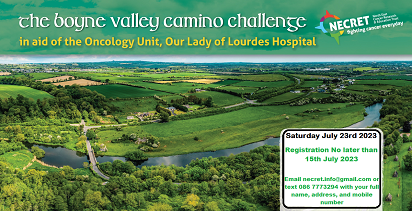
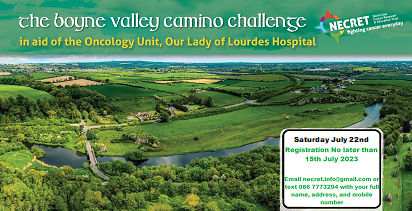
Updated DipNNip - PJ

Changed region(s): [[0.6699, 0.6256, 0.932, 0.6825]]

diff --git a/css/style.css b/css/style.css
@@ -1584,6 +1584,15 @@ span {
     text-align: center;
 }
 
+.faq {
+    color: #cccccc;
+}
+
+
+.faq:hover {
+    color: #ababab;
+}
+
 /* Favours Page */
 
 .favText {

diff --git a/includes/upcomingEvents.php b/includes/upcomingEvents.php
@@ -11,8 +11,8 @@
                     <p class="card-text navyCardText">We have exciting news! Our NorthEast Dip in the Nip Returns... September, Sunday 10th. This year amazingly will be our 12th year.</p>
 
 
-                    <p class="card-text navyCardText">Call <a href="tel:+353867773294">+353 86 777 3294</a></p>
-                    <p class="card-text navyCardText">Email <a href="email:karen@karennh.ie">karen@karennh.ie</a></p>
+                    <p class="card-text navyCardText">Call <a href="tel:+353867773294">+353 89 959 5976</a></p>
+                    <p class="card-text navyCardText">Email <a href="email:karen@karennh.ie">dipnortheast@gmail.com</a></p>
                     <p class="card-text navyCardText">OR</p>
                     <p class="card-text navyCardText">Visit Dip In The Nip Page <a href="./dipintheNip.php">Dip In The Nip</a></p>
                 </div>
@@ -38,7 +38,7 @@
                     <h6 class="card-title navyCardTitle">Registration is now open for our annual Camino. Interested in a fun challenge of an amazing 25km walk and ramble through the beautiful Boyne Valley countryside in aid of NECRET, who support focused activities towards improving treatment and outcomes of people with cancer.</h6>
                     <p class="card-text navyCardText">To receive your registration form please email necret.info@gmail.com or text 086 7773294 with your full name, address, and mobile number. To participate completed registration forms must be received no later than midday on Friday July 15th.  Limited numbers will apply so please register as soon as possible.</p>
                     <p class="card-text navyCardText">To get started with fundraising on Necret’s online fundraising page, please click on the following link: <a href="https://www.idonate.ie/cause/Necret" target="_blank">https://www.idonate.ie/5814_necret.html</a> Sponsorship cards are also available if required on request.</p>
-                    <p class="card-text navyCardText">Taking place on Saturday July 23rd it involves an amazing 25km walk and ramble through the beautiful Boyne Valley countryside in aid of NECRET, who support focused activities towards improving treatment and outcomes of people with cancer.</p>
+                    <p class="card-text navyCardText">Taking place on Saturday July 22nd it involves an amazing 25km walk and ramble through the beautiful Boyne Valley countryside in aid of NECRET, who support focused activities towards improving treatment and outcomes of people with cancer.</p>
                     <p class="card-text navyCardText">Starting from St Peter’s Church led by wonderfully experienced tour leaders who have very kindly volunteered their services, the trail follows the River Boyne before gaining the woodlands of the Townley Estate and then meandering quiet lanes to Mellifont, where there will be an opportunity for that much earned packed lunch or other refreshments. A separate return route gives a total walk of 25km.</p>
                 </div>
             </div>

diff --git a/dipintheNip.php b/dipintheNip.php
@@ -14,7 +14,17 @@
                         <h2 style="text-align: center;">Dip In the Nip</h2>
                     </div>
                     <div class="col-md-12 col-12 col-lg-12 col-xl-12 col-sm-12 mt-3 pt-2 mb-3 text-center">
-                        <img class="img-fluid" src="./img/dipNTheNip2023.jpg" alt="Dip In the Nip">
+                        <img class="img-fluid" src="./img/dipNTheNip2023_3.jpg" alt="Dip In the Nip">
+                    </div>
+
+                    <div class="col-md-12 col-12 col-lg-6 col-xl-6 col-sm-12 offset-md-3 mt-2 pt-2 mb-5 d-flex">
+                        <div class="card border-0 flex-fill">
+                            <div class="card-body contactCard text-center d-flex flex-column">
+                                <i class="fa fa-5x mb-3 fa-question faq" width="80px" height="100px" aria-hidden="true"></i>
+                                <h4 class="text-uppercase mb-5">FAQ</h4>
+                                <a class="btn btn-secondary" target="_blank" href="./docs/FAQDipIntheNip2023.pdf">FAQ</a>
+                            </div>
+                        </div>
                     </div>
                     
                     <div class="col-md-12 col-12 col-lg-12 col-xl-12 col-sm-12 mt-3 pt-2 mb-3 text-center">
@@ -28,7 +38,7 @@
                     <div class="col-md-12 col-12 col-lg-12 col-xl-12 col-sm-12 mt-3 pt-2 mb-3 text-center">
                         <h4>HOW TO REGISTER FOR OUR 12TH DIP IN THE NIP</h4>
                         <p>Simply fill in the form below and we will post a Registration Form and Sponsorship Card to you within a few days. Please complete this form and send back to us by post or email.</p>
-                        <p>If you are intending to organize a Group to Dip together and have 5 or more ladies, please email <a href="mailto:necret.info@gmail.com">necret.info@gmail.com</a> or text <a href="tel:00353867773294">086 7773294</a> with your name, address and the names in your group. We also ask that your group has a name – we had some brilliant names over the years.</p>
+                        <p>If you are intending to organize a Group to Dip together and have 5 or more ladies, please email <a href="mailto:dipnortheast@gmail.com">dipnortheast@gmail.com</a> or text <a href="tel:00353899595976">089 9595976</a> with your name, address and the names in your group. We also ask that your group has a name – we had some brilliant names over the years.</p>
                         <p>We have a different coloured registration form for groups which we can group post out to you along with the individual sponsorship cards or send to each group member.</p>
                     </div>
                     <div class="col-md-12 col-12 col-lg-12 col-xl-12 col-sm-12 mt-3 pt-2 mb-3 text-center">
